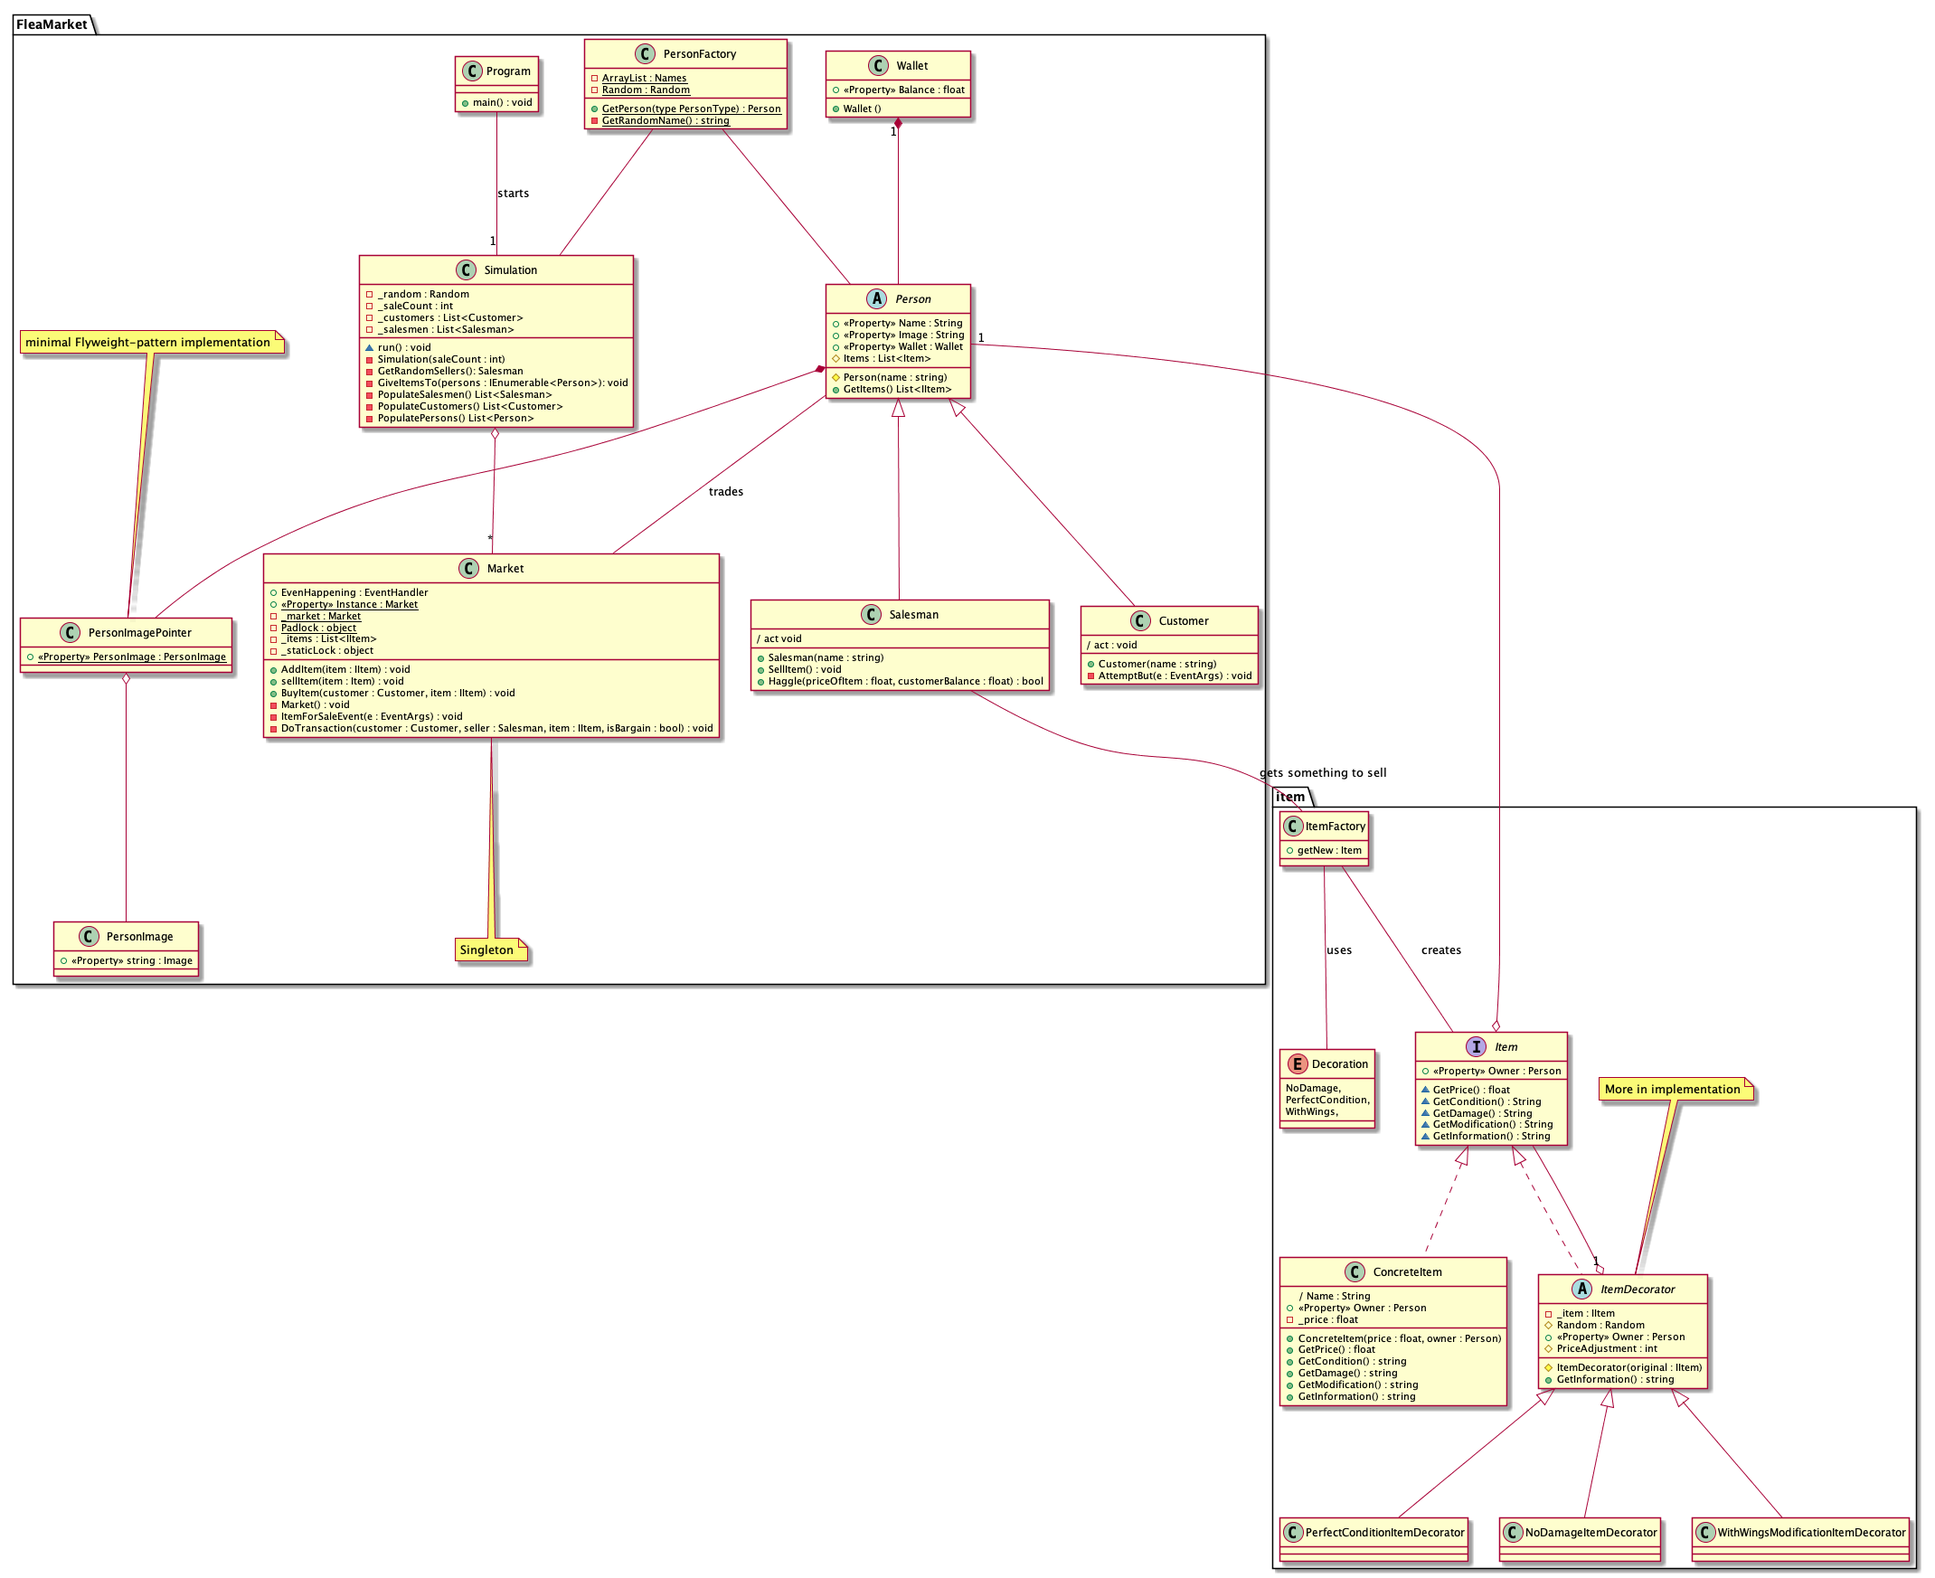
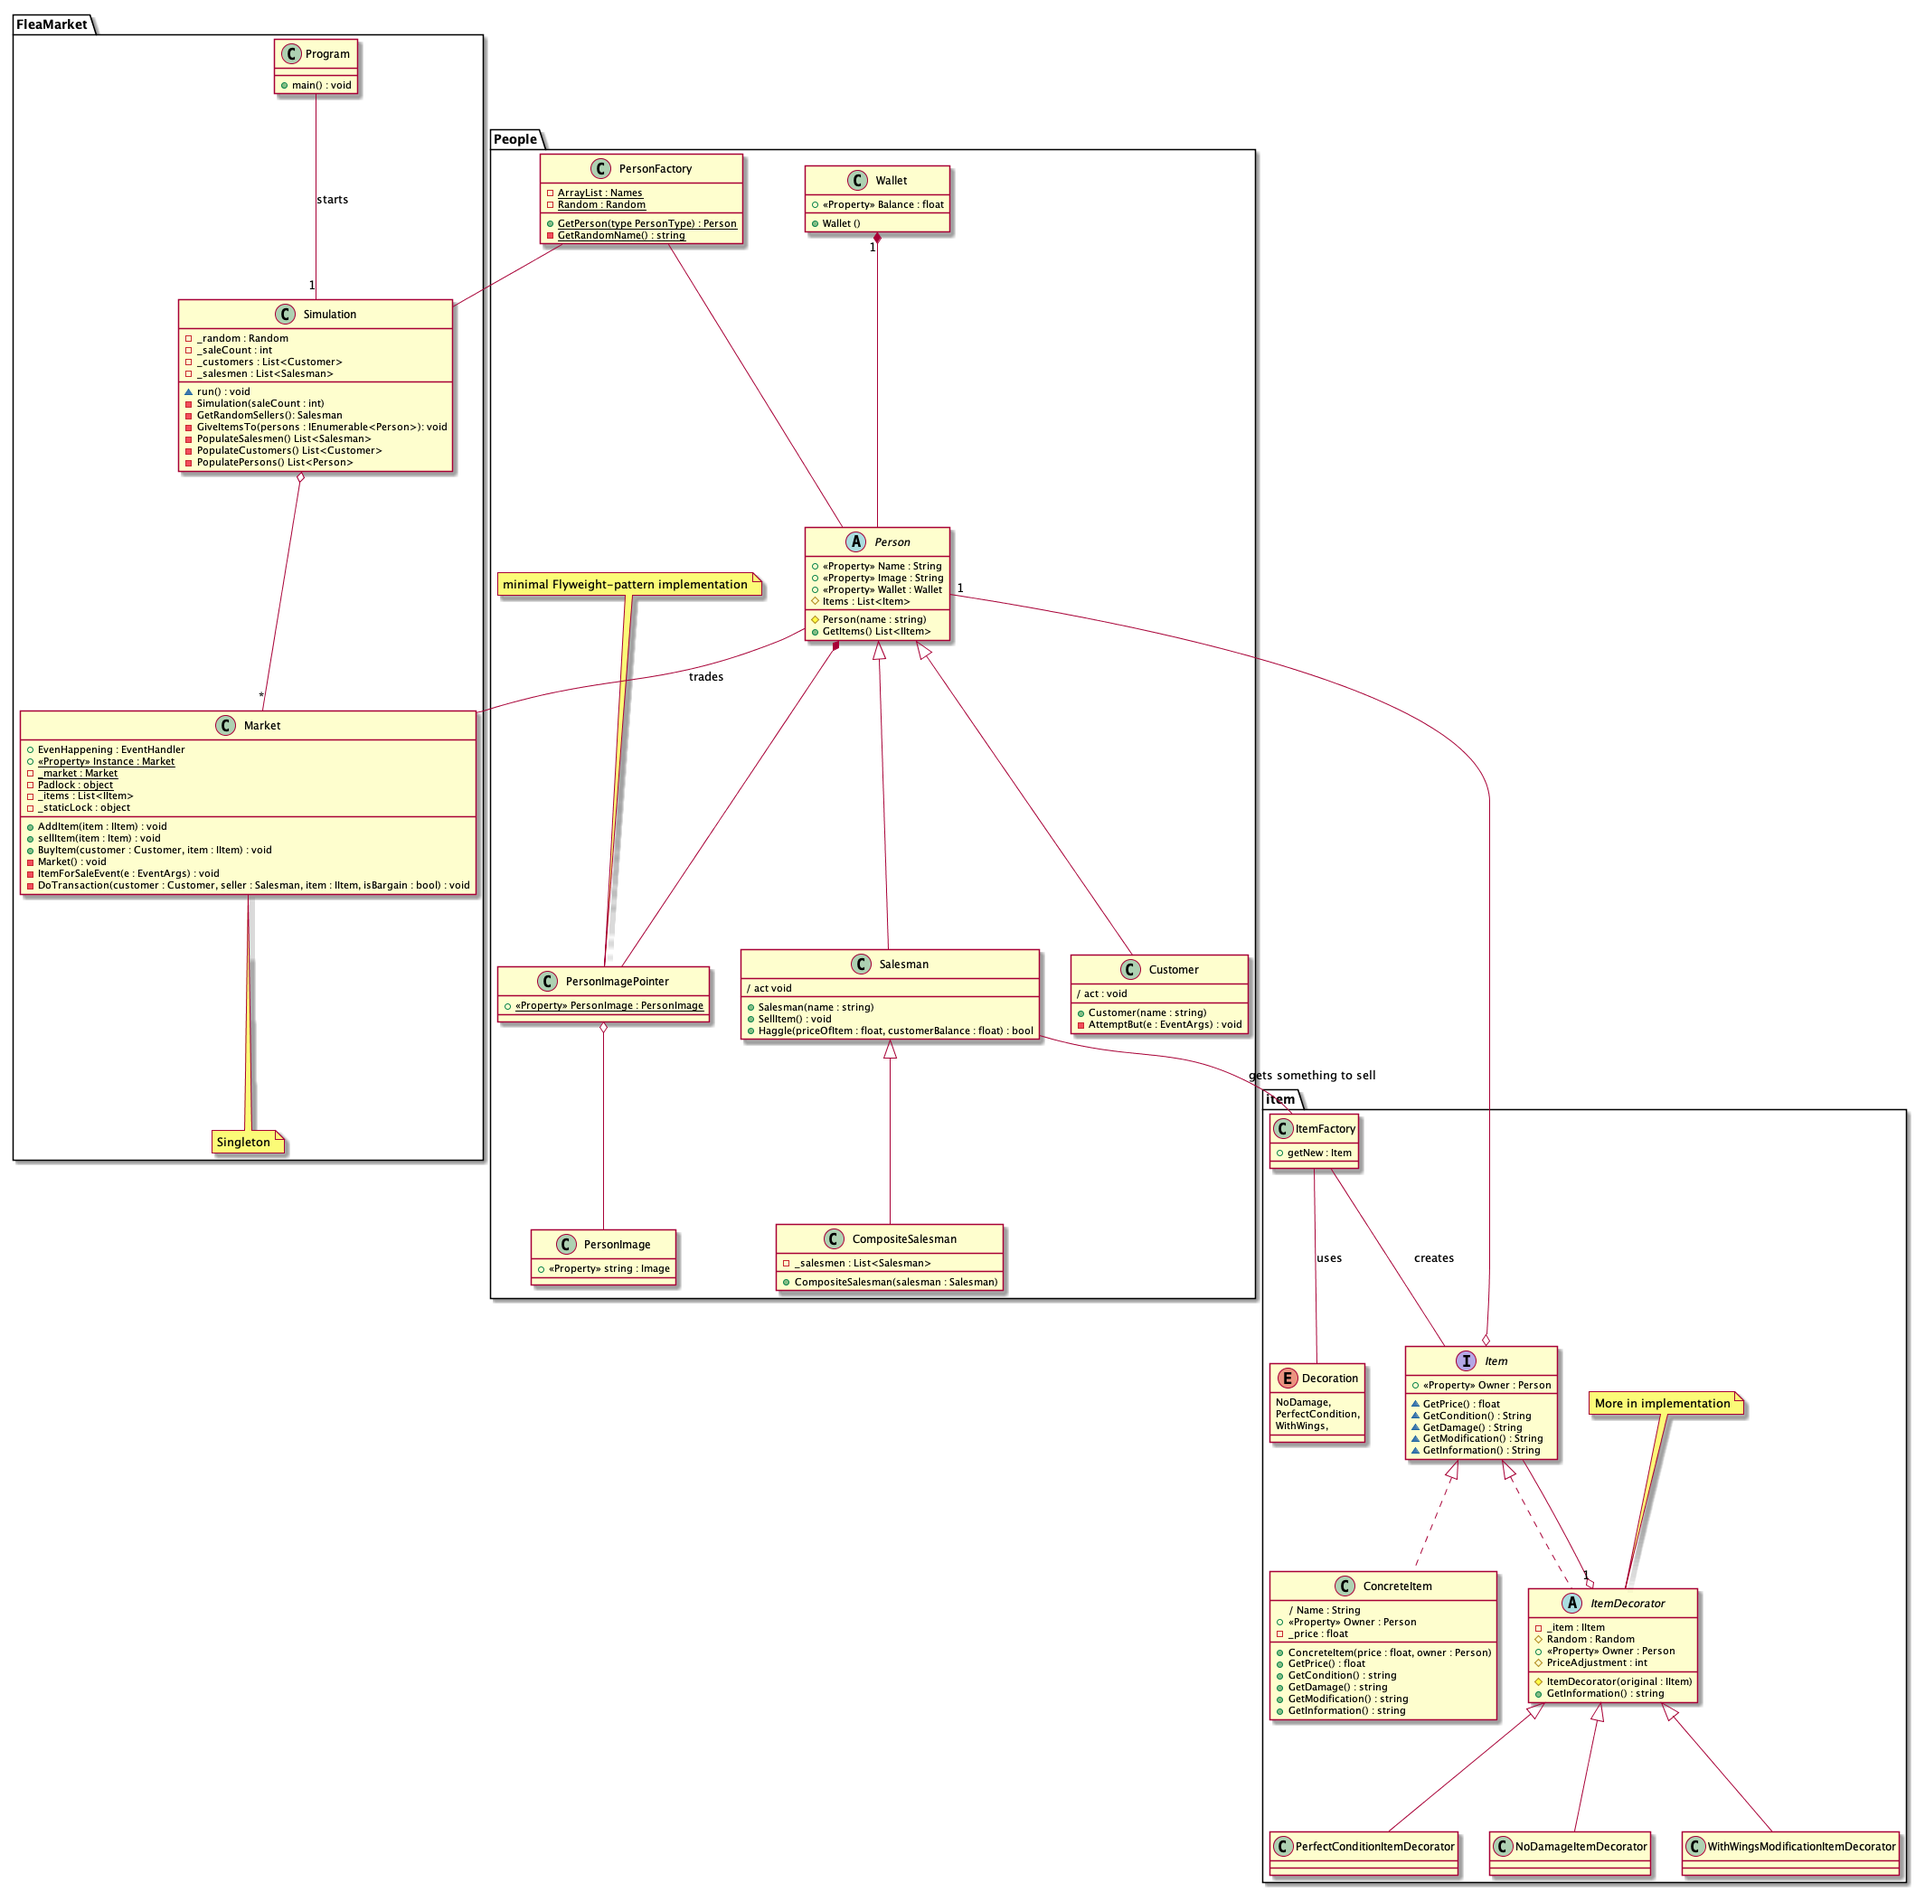
added another namespace -> people, added it to class diagram and wrote about it in documentaion

diff --git a/Market/People/CompositeSalesman.cs b/Market/People/CompositeSalesman.cs
@@ -1,7 +1,21 @@
 using System.Collections.Generic;
 
-namespace FleaMarket
+namespace People
 {
+    
+    /*
+    * A remove method is commonly used with this pattern.
+    * It is omitted, as we do not need it 
+    */
+    
+    /// <summary>
+    /// A salesman that may also be several salesmen,
+    /// following the Composite-pattern.
+    ///
+    /// A remove method is commonly used in composite-
+    /// classes like this, but it is omitted here, as
+    /// we do not need it.
+    /// </summary>
     public class CompositeSalesman : Salesman
     {
         private readonly List<Salesman> _salesmen; 
@@ -29,10 +43,6 @@ namespace FleaMarket
         {
            _salesmen.Add(salesman); 
         }
-
-        public void Remove(Salesman salesman)
-        {
-            _salesmen.Remove(salesman); 
-        }
+        
     }
 }

diff --git a/Market/Item/ItemForSaleEventArgs.cs b/Market/Item/ItemForSaleEventArgs.cs
@@ -1,7 +1,7 @@
 using System;
 using Item;
 
-namespace FleaMarket
+namespace Item
 {
     /// <inheritdoc />
     /// <summary>
@@ -16,7 +16,7 @@ namespace FleaMarket
             this.Item = item;
         }
 
-        public IItem Item { get; private set; }
+        public IItem Item { get; }
     }
 
 }

diff --git a/Market/People/Market.cs b/Market/People/Market.cs
@@ -3,7 +3,7 @@ using System.Collections.Generic;
 using System.Threading;
 using Item;
 
-namespace FleaMarket
+namespace People
 {
     /// <summary>
     /// This is the market people trade on.

diff --git a/Market/People/Person.cs b/Market/People/Person.cs
@@ -2,7 +2,7 @@ using System;
 using Item; 
 using System.Collections.Generic;
 
-namespace FleaMarket
+namespace People
 {
     /// <summary>
     /// Encapsulating the concept of

diff --git a/Market/Item/ItemFactory.cs b/Market/Item/ItemFactory.cs
@@ -1,7 +1,8 @@
 using System;
 using System.Collections;
 using System.Collections.Generic;
-using FleaMarket; 
+using FleaMarket;
+using People;
 
 namespace Item
 {

diff --git a/Market/People/PersonFactory.cs b/Market/People/PersonFactory.cs
@@ -1,7 +1,7 @@
 using System;
 using System.Collections;
 
-namespace FleaMarket
+namespace People
 {
     /// <summary>
     /// Static class for creating

diff --git a/Market/People/Customer.cs b/Market/People/Customer.cs
@@ -2,7 +2,7 @@ using System;
 using System.Threading;
 using Item;
 
-namespace FleaMarket
+namespace People
 {
     public class Customer : Person
     {

diff --git a/Market/Simulation.cs b/Market/Simulation.cs
@@ -3,6 +3,7 @@ using System.Collections.Generic;
 using System.Linq;
 using System.Threading;
 using Item;
+using People;
 
 namespace FleaMarket
 {

diff --git a/Market/People/PersonImage.cs b/Market/People/PersonImage.cs
@@ -1,6 +1,6 @@
 using System;
 
-namespace FleaMarket
+namespace People
 {
     /*
       * The flyweight pattern is mainly implemented to

diff --git a/MarketTest/PersonTest.cs b/MarketTest/PersonTest.cs
@@ -5,6 +5,7 @@ using System.Threading;
 using FleaMarket;
 using Item;
 using NUnit.Framework;
+using People;
 
 namespace MarketTest
 {

diff --git a/Market/People/Salesman.cs b/Market/People/Salesman.cs
@@ -5,7 +5,7 @@ using FleaMarket;
 using Item;
 
 
-namespace FleaMarket
+namespace People
 {
     public class Salesman : Person
     {

diff --git a/Market/People/Wallet.cs b/Market/People/Wallet.cs
@@ -1,6 +1,6 @@
 using System;
 
-namespace FleaMarket
+namespace People
 {
     /// <summary>
     /// This class encapsulates the
